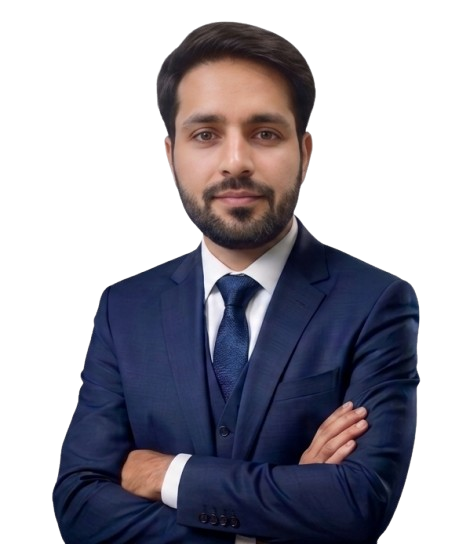
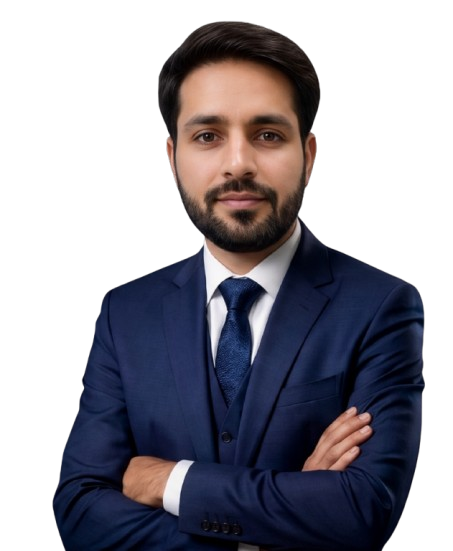
update

diff --git a/sections/hero-section.tsx b/sections/hero-section.tsx
@@ -121,7 +121,7 @@ export function HeroSection() {
               </div>
 
               {/* Portrait above frame, horizontally centered, wider than ring so sides can break past border */}
-              <figure className="pointer-events-none absolute bottom-0 left-1/2 z-20 w-[min(122%,26rem)] -translate-x-1/2 -top-8 sm:-top-11 sm:w-[min(128%,28rem)] md:-top-14">
+              <figure className="pointer-events-none absolute bottom-0 left-[45%] z-20 w-[min(122%,26rem)] -translate-x-1/2 -top-8 sm:-top-11 sm:w-[min(128%,28rem)] md:-top-14">
                 <Image
                   src={heroPortraitSrc}
                   alt="Ghulam Mustafa — Full Stack MERN Developer"

diff --git a/lib/portfolio-data.ts b/lib/portfolio-data.ts
@@ -109,6 +109,7 @@ export const typingSkills = [
   "Node.js & Express APIs",
   "MongoDB + SQL Systems",
   "AWS, Docker, CI/CD",
+  "React Native Android & IOS Applications",
 ];
 
 export const counters = [
